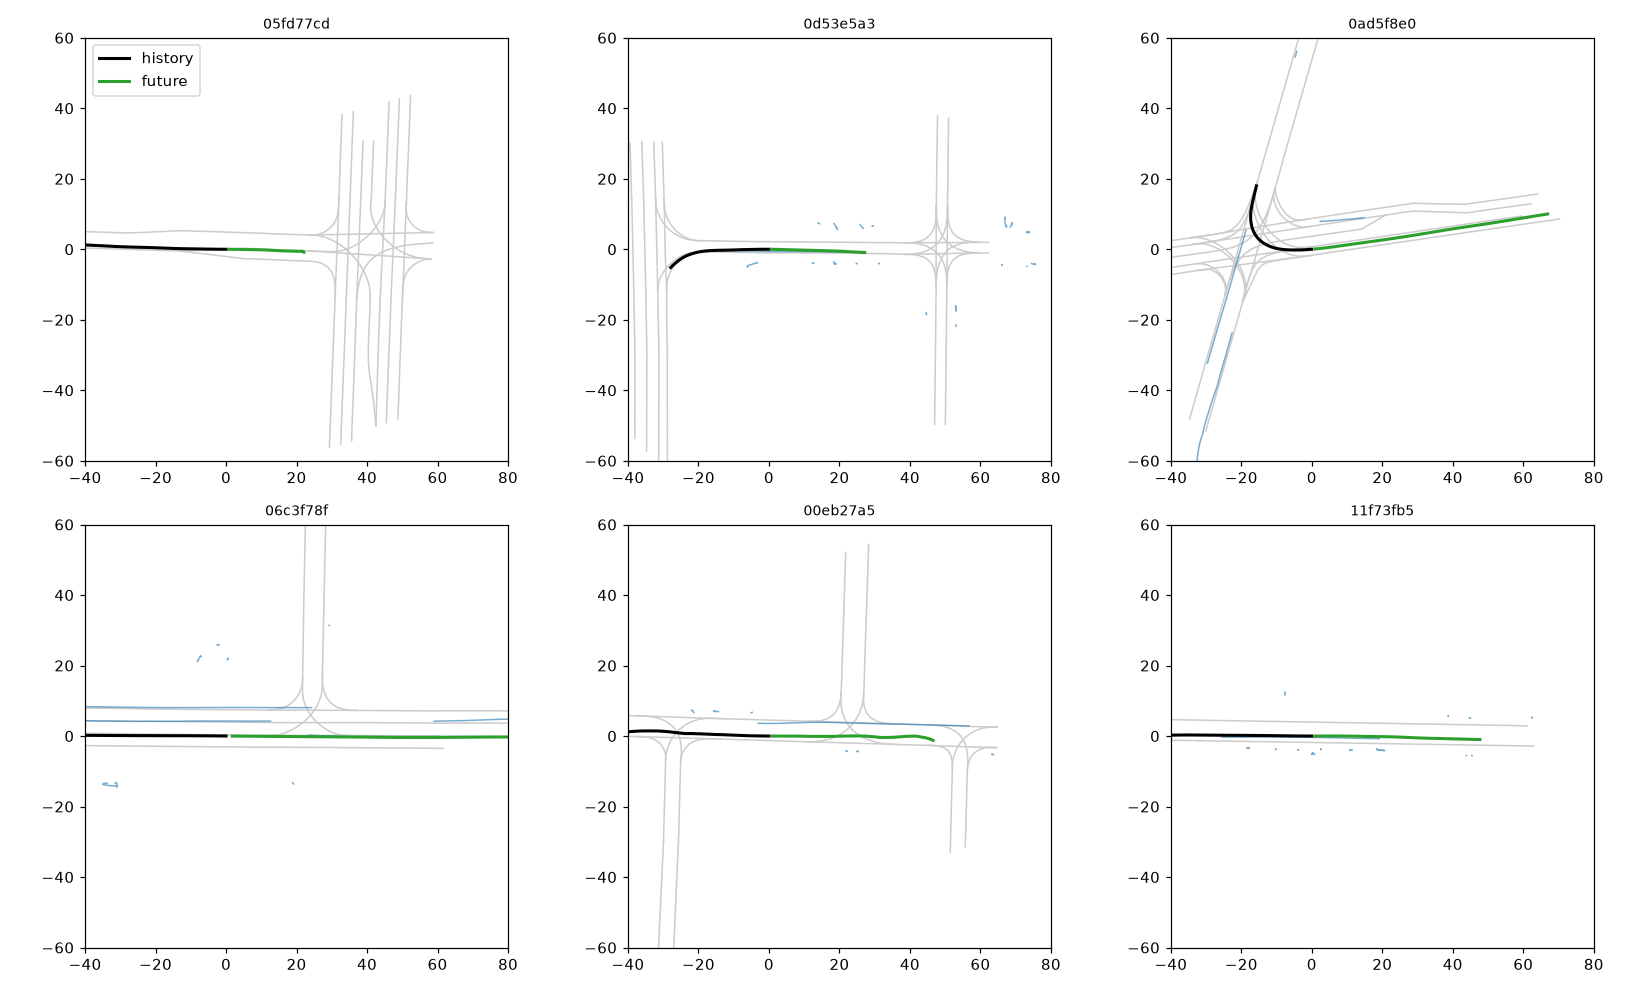
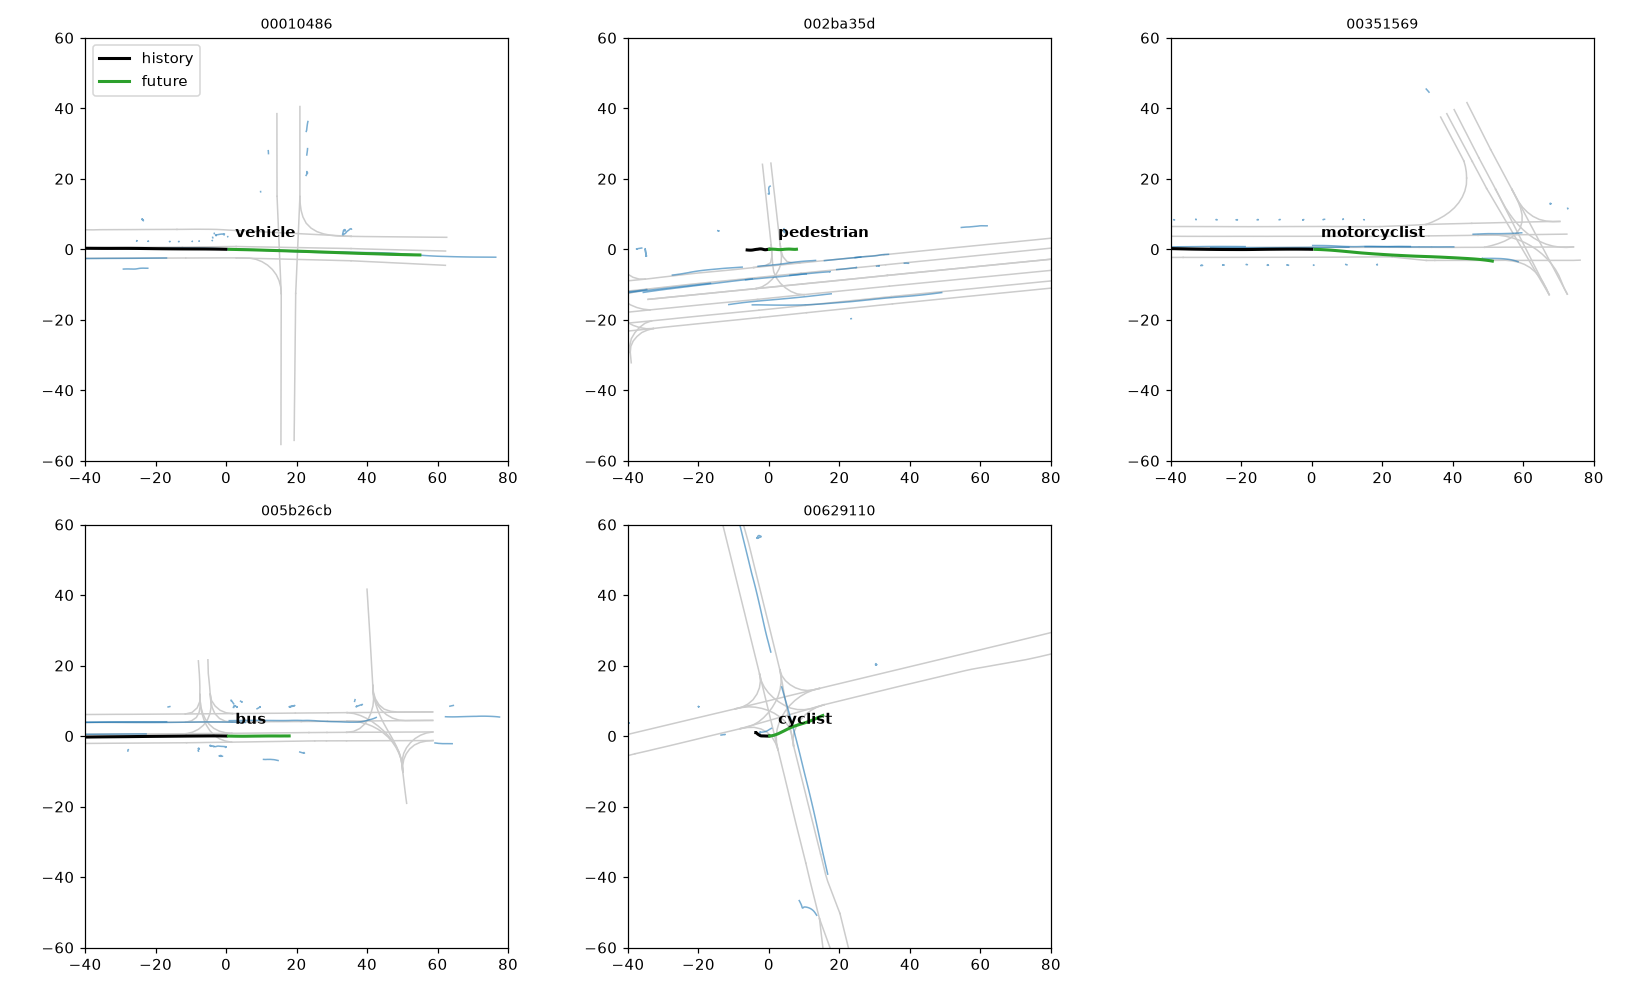
Add flow matching model and label agent types in scenes plot
model.py conditions a velocity MLP on a GRU encoding of the focal agent
history and a learned agent type embedding, with sinusoidal flow time
features. The scenes plot now shows one scene per focal agent type, and
model_diagram.png documents the architecture.

diff --git a/av2_data.py b/av2_data.py
@@ -7,7 +7,7 @@ import numpy as np
 import pandas as pd
 
 DATA_ROOT = Path(__file__).parent / "data" / "av2"
-N_HIST, N_FUT = 50, 60
+N_HIST, N_FUT = 50, 60 # number of historical timesteps/future timesteps that we are predicting
 TYPES = ["vehicle", "pedestrian", "motorcyclist", "cyclist", "bus", "static", "background", "construction", "riderless_bicycle", "unknown"]
 
 
@@ -61,6 +61,7 @@ def plot_scene(scene, ax, preds=None):
         ax.plot(*p.T, color="tab:orange", lw=1.2, alpha=0.7)
     ax.plot(*scene["hist"].T, color="k", lw=2, label="history")
     ax.plot(*scene["fut"].T, color="tab:green", lw=2, label="future")
+    ax.annotate(TYPES[scene["type"]], (0, 0), xytext=(6, 8), textcoords="offset points", weight="bold")
     ax.set_aspect("equal")
     ax.set_xlim(-40, 80)
     ax.set_ylim(-60, 60)
@@ -73,10 +74,17 @@ if __name__ == "__main__":
     import matplotlib.pyplot as plt
 
     dirs = list_scenarios("val")
-    picks = np.random.default_rng(0).choice(len(dirs), 6, replace=False)
+    scenes = {}
+    for d in dirs:
+        scene = load_scene(d)
+        scenes.setdefault(scene["type"], scene)
+        if len(scenes) == 6:
+            break
     fig, axes = plt.subplots(2, 3, figsize=(15, 9))
-    for ax, i in zip(axes.ravel(), picks):
-        plot_scene(load_scene(dirs[i]), ax)
+    for ax, scene in zip(axes.ravel(), scenes.values()):
+        plot_scene(scene, ax)
+    for ax in axes.ravel()[len(scenes):]:
+        ax.axis("off")
     axes[0, 0].legend(loc="upper left")
     fig.tight_layout()
     fig.savefig("scenes.png", dpi=110)

diff --git a/model.py b/model.py
@@ -1,0 +1,41 @@
+import math
+
+import torch
+import torch.nn as nn
+
+from av2_data import N_FUT, TYPES
+
+SCALE = 20.0
+N_FEAT = 6
+
+
+class FlowModel(nn.Module):
+    def __init__(self, hidden=256, type_dim=16, time_dim=32, width=512):
+        super().__init__()
+        self.time_dim = time_dim
+        self.type_embedding = nn.Embedding(len(TYPES), type_dim)
+        self.history_encoder = nn.GRU(N_FEAT, hidden, batch_first=True)
+        self.velocity_net = nn.Sequential(
+            nn.Linear(2 * N_FUT + hidden + type_dim + time_dim, width), nn.SiLU(),
+            nn.Linear(width, width), nn.SiLU(),
+            nn.Linear(width, width), nn.SiLU(),
+            nn.Linear(width, 2 * N_FUT),
+        )
+
+    def time_embedding(self, t):
+        half = self.time_dim // 2
+        freqs = 1000 * torch.exp(-math.log(1000) * torch.arange(half) / half)
+        angles = t[:, None] * freqs
+        return torch.cat([angles.sin(), angles.cos()], dim=1)
+
+    def forward(self, x, t, history, type_id):
+        history_code = self.history_encoder(history)[1][-1]
+        condition = torch.cat([history_code, self.type_embedding(type_id)], dim=1)
+        inputs = torch.cat([x.flatten(1), condition, self.time_embedding(t)], dim=1)
+        return self.velocity_net(inputs).view(-1, N_FUT, 2)
+
+
+def normalise(feat, fut=None):
+    feat = feat.clone()
+    feat[..., :4] /= SCALE
+    return feat if fut is None else (feat, fut / SCALE)
